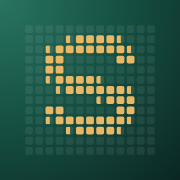
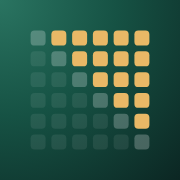
Suited mark back to the suited half of a range; rename the Oxblood theme
- The mark returns to the suited half of a range chart: suited cells
  above the diagonal in brass, the pairs a soft line, offsuit dim. The
  S version did not read as a range. Restored the icons and brand
  files, and the share card draws the same mark.
- The Oxblood theme is now called Burgundy. Its stored id stays the
  same, so players who picked it keep it.

Claude-Session: https://claude.ai/code/session_014S3AEocxvMY6rzh6C75xZ5

Changed region(s): [[0.25, 0.1667, 0.8333, 0.75], [0.7222, 0.75, 0.8333, 0.8333], [0.1667, 0.1667, 0.25, 0.25]]

diff --git a/apps/web/src/ui/Brand.tsx b/apps/web/src/ui/Brand.tsx
@@ -3,38 +3,21 @@ import { type CSSProperties, useId } from 'react';
 import { WORDMARK_PATH, WORDMARK_VIEWBOX } from './wordmark';
 
 /**
- * The mark is a real 13x13 range chart with an S painted into it. "#" cells
- * are fully in the range (brass), "+" cells are mixed hands drawn as split
- * cells, the way a range chart shows them, and they round the curves of the S.
+ * The mark is the suited half of a range chart, on a 6x6 grid. In every
+ * range chart suited hands sit above the diagonal and pairs sit on it, so
+ * the lit triangle is the name drawn in the language of the game.
  */
-const S_ROWS = [
-  '.............',
-  '....+####+...',
-  '..+#######+..',
-  '..##.....##..',
-  '..##.........',
-  '..+####+.....',
-  '...+######+..',
-  '.......+###..',
-  '..##.....##..',
-  '..+#######+..',
-  '....+####+...',
-  '.............',
-  '.............',
-];
-
-export const MARK_GRID = 13;
-
-export type MarkCell = 'full' | 'mix' | 'off';
+export type MarkCell = 'suited' | 'pair' | 'off';
 export function markCell(r: number, c: number): MarkCell {
-  const ch = S_ROWS[r]?.[c];
-  return ch === '#' ? 'full' : ch === '+' ? 'mix' : 'off';
+  return c > r ? 'suited' : c === r ? 'pair' : 'off';
 }
 
+export const MARK_GRID = 6;
+
 /**
- * The Suited mark: an S painted into a real range chart, the way a solver
- * paints a range. Lit cells are brass, mixed cells are split, and the rest
- * of the chart stays faintly visible.
+ * The Suited mark: the suited half of a range chart, painted the way a
+ * solver paints a range. Suited cells are brass, the pairs on the diagonal
+ * are a soft line, and the offsuit half stays faintly visible.
  *
  * - `tile`: the app icon form, brass on the spruce felt gradient.
  * - `glyph`: the grid alone in the current color, for use on other surfaces.
@@ -47,7 +30,7 @@ export function BrandMark({
 }: {
   size?: number;
   variant?: 'tile' | 'glyph';
-  /** Assemble along the diagonal, then light the S, like a solver painting a range. */
+  /** Assemble along the diagonal, then light the suited half, like a solver painting a range. */
   animate?: boolean;
   /** Follow the active theme. Off for places that must show the master brand. */
   themed?: boolean;
@@ -55,8 +38,8 @@ export function BrandMark({
   const id = useId();
   const n = MARK_GRID;
   const tile = variant === 'tile';
-  const pad = tile ? 14 : 2;
-  const gap = tile ? 1.3 : 1.6;
+  const pad = tile ? 17 : 3;
+  const gap = tile ? 3.2 : 4;
   const cell = (100 - 2 * pad - (n - 1) * gap) / n;
   return (
     <svg
@@ -83,35 +66,21 @@ export function BrandMark({
         const r = Math.floor(i / n);
         const c = i % n;
         const kind = markCell(r, c);
-        const x = pad + c * (cell + gap);
-        const y = pad + r * (cell + gap);
-        const rx = cell * 0.22;
-        const brass = tile ? (themed ? 'var(--accent)' : '#e9b866') : 'currentColor';
-        const dim = tile ? 'rgba(255,255,255,.07)' : 'currentColor';
-        const anim = animate ? { className: kind === 'off' ? 'cell' : 'cell lit', style: { '--d': (r + c) / 2 } as CSSProperties } : {};
-        if (kind === 'mix') {
-          // A mixed hand: part of the cell in the range, like a split cell in a chart.
-          const clip = `${id}-c${i}`;
-          return (
-            <g key={i} {...anim}>
-              <clipPath id={clip}>
-                <rect x={x} y={y} width={cell} height={cell} rx={rx} />
-              </clipPath>
-              <rect x={x} y={y} width={cell} height={cell} rx={rx} style={{ fill: tile ? 'rgba(255,255,255,.1)' : 'currentColor', fillOpacity: tile ? 1 : 0.14 }} />
-              <rect x={x} y={y} width={cell * 0.55} height={cell} clipPath={`url(#${clip})`} style={{ fill: brass }} />
-            </g>
-          );
-        }
+        const lit = kind === 'suited';
         return (
           <rect
             key={i}
-            x={x}
-            y={y}
+            x={pad + c * (cell + gap)}
+            y={pad + r * (cell + gap)}
             width={cell}
             height={cell}
-            rx={rx}
-            {...anim}
-            style={{ ...anim.style, fill: kind === 'full' ? brass : dim, fillOpacity: tile ? 1 : kind === 'full' ? 1 : 0.12 }}
+            rx={cell * 0.26}
+            className={animate ? (lit ? 'cell lit' : 'cell') : undefined}
+            style={{
+              ...(animate ? ({ '--d': r + c } as CSSProperties) : null),
+              fill: tile ? (lit ? (themed ? 'var(--accent)' : '#e9b866') : kind === 'pair' ? 'rgba(255,255,255,.24)' : 'rgba(255,255,255,.08)') : 'currentColor',
+              fillOpacity: tile ? 1 : lit ? 1 : kind === 'pair' ? 0.4 : 0.14,
+            }}
           />
         );
       })}

diff --git a/apps/web/src/components/RatingShare.tsx b/apps/web/src/components/RatingShare.tsx
@@ -111,26 +111,15 @@ export async function drawRatingCard(d: RatingCardData): Promise<Blob> {
   ctx.fillStyle = 'rgba(255,255,255,0.08)';
   roundRect(ctx, mx, my, ms, ms, ms * 0.23);
   ctx.fill();
-  const pad = ms * 0.14;
-  const g = ms * 0.013;
+  const pad = ms * 0.17;
+  const g = ms * 0.032;
   const cs = (ms - 2 * pad - (MARK_GRID - 1) * g) / MARK_GRID;
   for (let r = 0; r < MARK_GRID; r++)
     for (let c = 0; c < MARK_GRID; c++) {
       const kind = markCell(r, c);
-      const x = mx + pad + c * (cs + g);
-      const y = my + pad + r * (cs + g);
-      ctx.fillStyle = kind === 'full' ? BRAND.brass : 'rgba(255,255,255,0.1)';
-      roundRect(ctx, x, y, cs, cs, cs * 0.22);
+      ctx.fillStyle = kind === 'suited' ? BRAND.brass : kind === 'pair' ? 'rgba(255,255,255,0.26)' : 'rgba(255,255,255,0.12)';
+      roundRect(ctx, mx + pad + c * (cs + g), my + pad + r * (cs + g), cs, cs, cs * 0.22);
       ctx.fill();
-      if (kind === 'mix') {
-        // A mixed hand: the left part of the cell in brass, as a range chart splits it.
-        ctx.save();
-        roundRect(ctx, x, y, cs, cs, cs * 0.22);
-        ctx.clip();
-        ctx.fillStyle = BRAND.brass;
-        ctx.fillRect(x, y, cs * 0.55, cs);
-        ctx.restore();
-      }
     }
   const [vx, vy, , vh] = WORDMARK_VIEWBOX.split(' ').map(Number);
   const wh = 60;

diff --git a/apps/web/src/state/settings.tsx b/apps/web/src/state/settings.tsx
@@ -32,7 +32,7 @@ export type Palette = 'card-room' | 'ink' | 'oxblood' | 'cobalt';
 export const PALETTES: { id: Palette; name: string; note: string; felt: [string, string]; accent: string }[] = [
   { id: 'card-room', name: 'Card room', note: 'Spruce and brass', felt: ['#2a7461', '#0b2421'], accent: '#e3b261' },
   { id: 'ink', name: 'Ink', note: 'Navy and brass', felt: ['#2f4f8a', '#0b1426'], accent: '#e3b261' },
-  { id: 'oxblood', name: 'Oxblood', note: 'Wine and cream', felt: ['#8a3142', '#2a0e14'], accent: '#ecd9b4' },
+  { id: 'oxblood', name: 'Burgundy', note: 'Wine and cream', felt: ['#8a3142', '#2a0e14'], accent: '#ecd9b4' },
   { id: 'cobalt', name: 'Cobalt', note: 'Blue and ice', felt: ['#4573ff', '#0a1a4a'], accent: '#dfe7ff' },
 ];
 

diff --git a/docs/BRAND.md b/docs/BRAND.md
@@ -18,7 +18,7 @@ Suited sounds like a good coach sitting next to you: calm, direct and warm. The 
 
 ## Logo
 
-**The mark** is a real 13x13 range chart with an S painted into it, the way a solver paints a range. Cells in the S are brass. Cells on its curves are mixed hands, drawn as split cells the way a range chart shows them, which also round the letter. The rest of the chart stays faintly visible. A player reads it as a range chart, anyone else as an S.
+**The mark** is the suited half of a range chart, on a 6x6 grid. In every range chart, suited hands sit above the diagonal and pairs sit on it. The cells above the diagonal are brass, the pairs on the diagonal are a soft neutral line, and the offsuit half stays faintly visible. It is the name drawn in the language of the game: a player reads it as a range chart, anyone else as a clean triangle.
 
 **The wordmark** is "Suited" drawn from Instrument Serif with tracking of -10 units per letter, kept as outlines (`apps/web/src/ui/wordmark.ts`) so it never depends on a font loading. Regenerate it from the font with opentype.js rather than editing the path by hand.
 
@@ -29,7 +29,7 @@ Files: `docs/brand/suited-lockup.svg`, `suited-wordmark.svg`, `suited-mark.svg`,
 Usage:
 - Clear space around the mark: one grid cell on every side.
 - Minimum size: 20px for the tile, 14px tall for the wordmark.
-- Do not change which cells are lit, recolor the S, rotate or mirror the grid, add effects, or redraw the wordmark in a live font.
+- Do not change which cells are lit, recolor the suited half, rotate or mirror the grid (the suited half is always top right), add effects, or redraw the wordmark in a live font.
 
 ## Color
 
@@ -55,7 +55,7 @@ Card room is the brand: it is what goes on the app icon, the splash screen and e
 | --- | --- | --- | --- |
 | Card room (default) | Spruce | Brass | The brand |
 | Ink | Navy | Brass | Quieter, more corporate |
-| Oxblood | Wine | Cream | Warm and dramatic; the felt sits near the red used for raise, so it is not the default |
+| Burgundy | Wine | Cream | Warm and dramatic; the felt sits near the red used for raise, so it is not the default |
 | Cobalt | Blue | Ice | The earlier blue direction |
 
 Themes only change the felt and accent tokens (`--base-*`, `--felt-*`, `--accent`, `--tint*`). Poker semantic colors never change.
@@ -94,7 +94,7 @@ Motion explains what happened; it never decorates.
 - **Ink:** painted cells fill from the left like a brush stroke.
 - **Liquid selection:** the tab pill stretches as it slides between tabs.
 - **Count up:** headline numbers roll to their value; rings fill.
-- **The mark assembles:** on the welcome screen and in moments, the grid pops in along the diagonal and the S lights in a brass sweep.
+- **The mark assembles:** on the welcome screen and in moments, the grid pops in along the diagonal and the suited half lights in a brass sweep.
 - **Verdicts land:** the badge pops, a soft ring leaves it, and the check draws itself. Mix bars grow from the left.
 - **Moments:** a new tier or a streak milestone gets one short full screen moment on the felt, once, and only on a calm screen (never mid question). The title wipes in like ink. Nothing else earns a takeover.
 - Springs for things you touch, ease out for things that appear. Everything respects Reduce Motion.

diff --git a/docs/ROADMAP.md b/docs/ROADMAP.md
@@ -28,12 +28,12 @@ Ordered for the main game (live 1/3 cash, 9-handed, on a phone) and so the core 
 - [x] Free practice mode that does not touch the schedule
 - [x] Phone layout with a bottom tab bar; installable PWA that works offline
 - [x] Liquid Glass redesign: iOS system colors, light and dark modes, glass tab bar and sidebar, large titles with a collapsing nav bar, inset grouped lists, a custom icon set
-- [x] Rebrand to Suited (October 2026): a real 13x13 range chart with an S painted in it, "Poker, suited to you.", color blind friendly action colors as an option in Settings
+- [x] Rebrand to Suited (October 2026): the suited half of a range chart as the mark, "Poker, suited to you.", color blind friendly action colors as an option in Settings
 - [x] Brand identity: F mark painted in a 6x6 range grid, serif wordmark, Card room palette (spruce and brass), guidelines in BRAND.md, app icons, Home with a felt hero, up next hand preview, mastery map, key idea and chart progress, motion (card flip, diagonal grid wave, ink painting, liquid tab pill, count ups)
 - [x] UI pass: press states on every control, haptics (Android vibration, iOS switch tick), thumb zone answer buttons, focus mode for review, animated verdicts and score rings, settings with segmented controls, steppers and toggles, keyboard shortcuts on laptops
 - [x] Lesson player: one idea per screen (text, formulas, tables, charts, hands on felt, callouts, quick checks, takeaways), story style progress, swipe and keyboard navigation, resume where you left off, completion with practice links
 - [x] 11 lessons: pot odds, MDF and alpha, combos and blockers, outs, equity realization, early and late position opens, small blind, big blind defense, live pool tendencies, punishing limpers (quiz answers tested against the charts)
-- [x] Themes: Card room (brand default), Ink, Oxblood, Cobalt
+- [x] Themes: Card room (brand default), Ink, Burgundy, Cobalt
 - [x] 29 lessons across foundations (EV and indifference, implied odds, SPR and geometric sizing, range vs range, range and nut advantage, range shapes), postflop (textures, c-betting in position, sizing, defending c-bets, check raising, turn cards, bluff selection, bluff catching) and exploitation (node locking, stations, nits, sizing tells)
 - [x] Accuracy pass: every lesson claim labelled exact math, solver pattern (approximate) or pool tendency; every math number recomputed in tests; range numbers computed from Suited's charts
 - [x] Full curriculum: 70 lessons across foundations and game theory, preflop (including live preflop), postflop (river play, 3bet pots, multiway), exploitation, mental game and study, and tournaments; every lesson has at least two quiz questions
